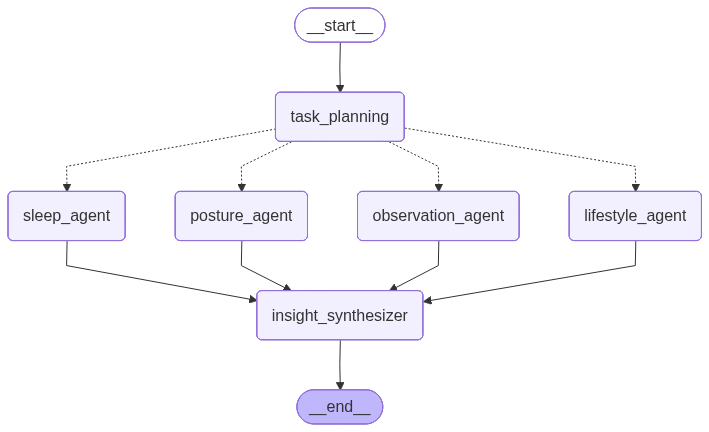
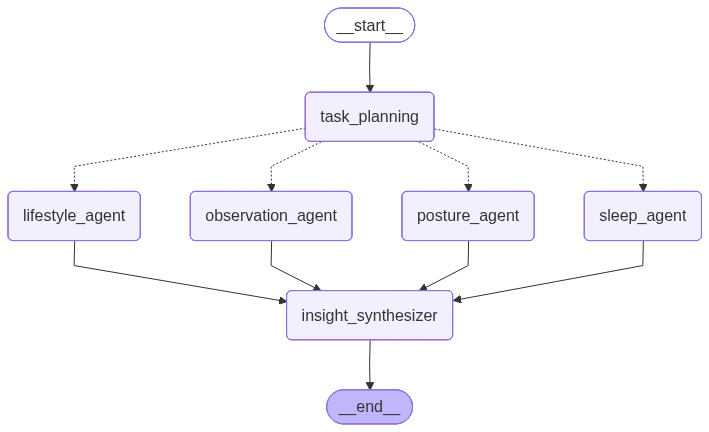
fix: keep legacy LangGraph flows working on upgraded langgraph/langchain-google-genai
Gemini 3 tool-calling requires langchain-google-genai>=3.1 (thought_signature
fix), which in turn needs langchain-core>=1.0 and a langgraph upgrade past
0.2.x. That upgrade dropped add_conditional_edges(..., then=...) and made
draw_mermaid() unable to resolve bare conditional-edge functions, so the
legacy supervisor/chat/action/health graphs needed small compatibility fixes
(explicit join edges, explicit path_maps) to keep routing identically and
render correctly. Regenerated the affected docs/graphs/*.mmd|png.

diff --git a/app/graph/health_graph.py b/app/graph/health_graph.py
@@ -43,8 +43,15 @@ def build():
     graph.add_node("insight_synthesizer", insight_synthesizer)
 
     graph.set_entry_point("task_planning")
-    # path returns a *list* of node names -> true parallel fan-out; `then`
-    # names the join node that runs once all selected agents finish.
-    graph.add_conditional_edges("task_planning", select_domain_agents, then="insight_synthesizer")
+    # path returns a *list* of node names -> true parallel fan-out. langgraph
+    # >=1.0 dropped add_conditional_edges(..., then=...), so the join edges
+    # are added explicitly instead (every domain node always leads to the
+    # synthesizer regardless of which subset ran). The explicit path_map
+    # (mirroring _DOMAIN_NODES) also lets draw_mermaid() resolve the fan-out
+    # instead of leaving it disconnected in the diagram.
+    domain_path_map = {node: node for node in _DOMAIN_NODES.values()}
+    graph.add_conditional_edges("task_planning", select_domain_agents, domain_path_map)
+    for node in ("sleep_agent", "posture_agent", "observation_agent", "lifestyle_agent"):
+        graph.add_edge(node, "insight_synthesizer")
     graph.add_edge("insight_synthesizer", END)
     return graph.compile()

diff --git a/app/graph/action_graph.py b/app/graph/action_graph.py
@@ -100,7 +100,17 @@ def build():
 
     graph.set_entry_point("intent_analysis")
     graph.add_edge("intent_analysis", "action_planning")
-    graph.add_conditional_edges("action_planning", route_by_intent)
+    # Explicit path_map so draw_mermaid() can resolve all three branches
+    # instead of leaving them disconnected in the diagram.
+    graph.add_conditional_edges(
+        "action_planning",
+        route_by_intent,
+        {
+            "device_agent": "device_agent",
+            "schedule_agent": "schedule_agent",
+            "set_recommend_context": "set_recommend_context",
+        },
+    )
     graph.add_edge("device_agent", "verify_result")
     graph.add_edge("schedule_agent", "verify_result")
     graph.add_edge("set_recommend_context", "health_analysis")

diff --git a/app/graph/supervisor_graph.py b/app/graph/supervisor_graph.py
@@ -51,7 +51,14 @@ def build():
 
     graph.set_entry_point("load_user_context")
     graph.add_edge("load_user_context", "intent_classification")
-    graph.add_conditional_edges("intent_classification", route_graph)
+    # Explicit path_map (not just the bare function) so draw_mermaid() can
+    # resolve the branches instead of leaving chat_graph/report_graph/
+    # action_graph as disconnected nodes in docs/graphs/supervisor_graph.png.
+    graph.add_conditional_edges(
+        "intent_classification",
+        route_graph,
+        {"chat_graph": "chat_graph", "report_graph": "report_graph", "action_graph": "action_graph"},
+    )
     for node in ("chat_graph", "report_graph", "action_graph"):
         graph.add_edge(node, END)
     return graph.compile()

diff --git a/app/graph/chat_graph.py b/app/graph/chat_graph.py
@@ -104,7 +104,13 @@ def build():
 
     graph.set_entry_point("normalize_request")
     graph.add_edge("normalize_request", "need_context")
-    graph.add_conditional_edges("need_context", route_need_context)
+    # Explicit path_map so draw_mermaid() can resolve both branches instead of
+    # leaving health_analysis/generate_response disconnected in the diagram.
+    graph.add_conditional_edges(
+        "need_context",
+        route_need_context,
+        {"health_analysis": "health_analysis", "generate_response": "generate_response"},
+    )
     graph.add_edge("health_analysis", "generate_response")
     graph.add_edge("generate_response", "validate_response")
     graph.add_edge("validate_response", END)
